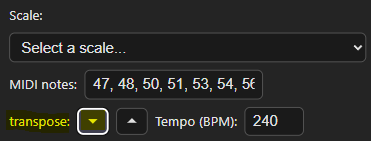
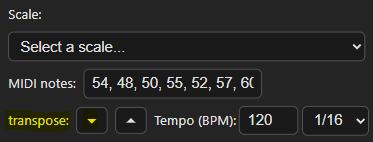
add beat division documentation to midiCellularAutomata page

diff --git a/app/projects/midiCellularAutomata/page.tsx b/app/projects/midiCellularAutomata/page.tsx
@@ -137,6 +137,10 @@ const MidiCellularAutomata = () => {
           <div className='relative w-full max-w-[500px] h-[200px] mx-auto overflow-hidden rounded-lg md:mt-6'>
             <Image src='/images/cellular_automata_midi_seq_15.png' alt='cellular_automata_midi_seq_15' layout='fill' objectFit='contain' className='rounded-lg'/>
           </div>
+          <p className='mt-6'>and adjust the beat division in relation to the tempo</p>
+          <div className='relative w-full max-w-[500px] h-[200px] mx-auto overflow-hidden rounded-lg md:mt-6'>
+            <Image src='/images/cellular_automata_midi_seq_15_5.png' alt='cellular_automata_midi_seq_15' layout='fill' objectFit='contain' className='rounded-lg'/>
+          </div>
           <p className='mt-6'>the # of hits, # notes in seq, repeats after displayed values</p>
           <p>are for reference to be able to have an idea on how the # of notes</p>
           <p>in the note sequence interacts with the # of notes in the rhythm sequence</p>
